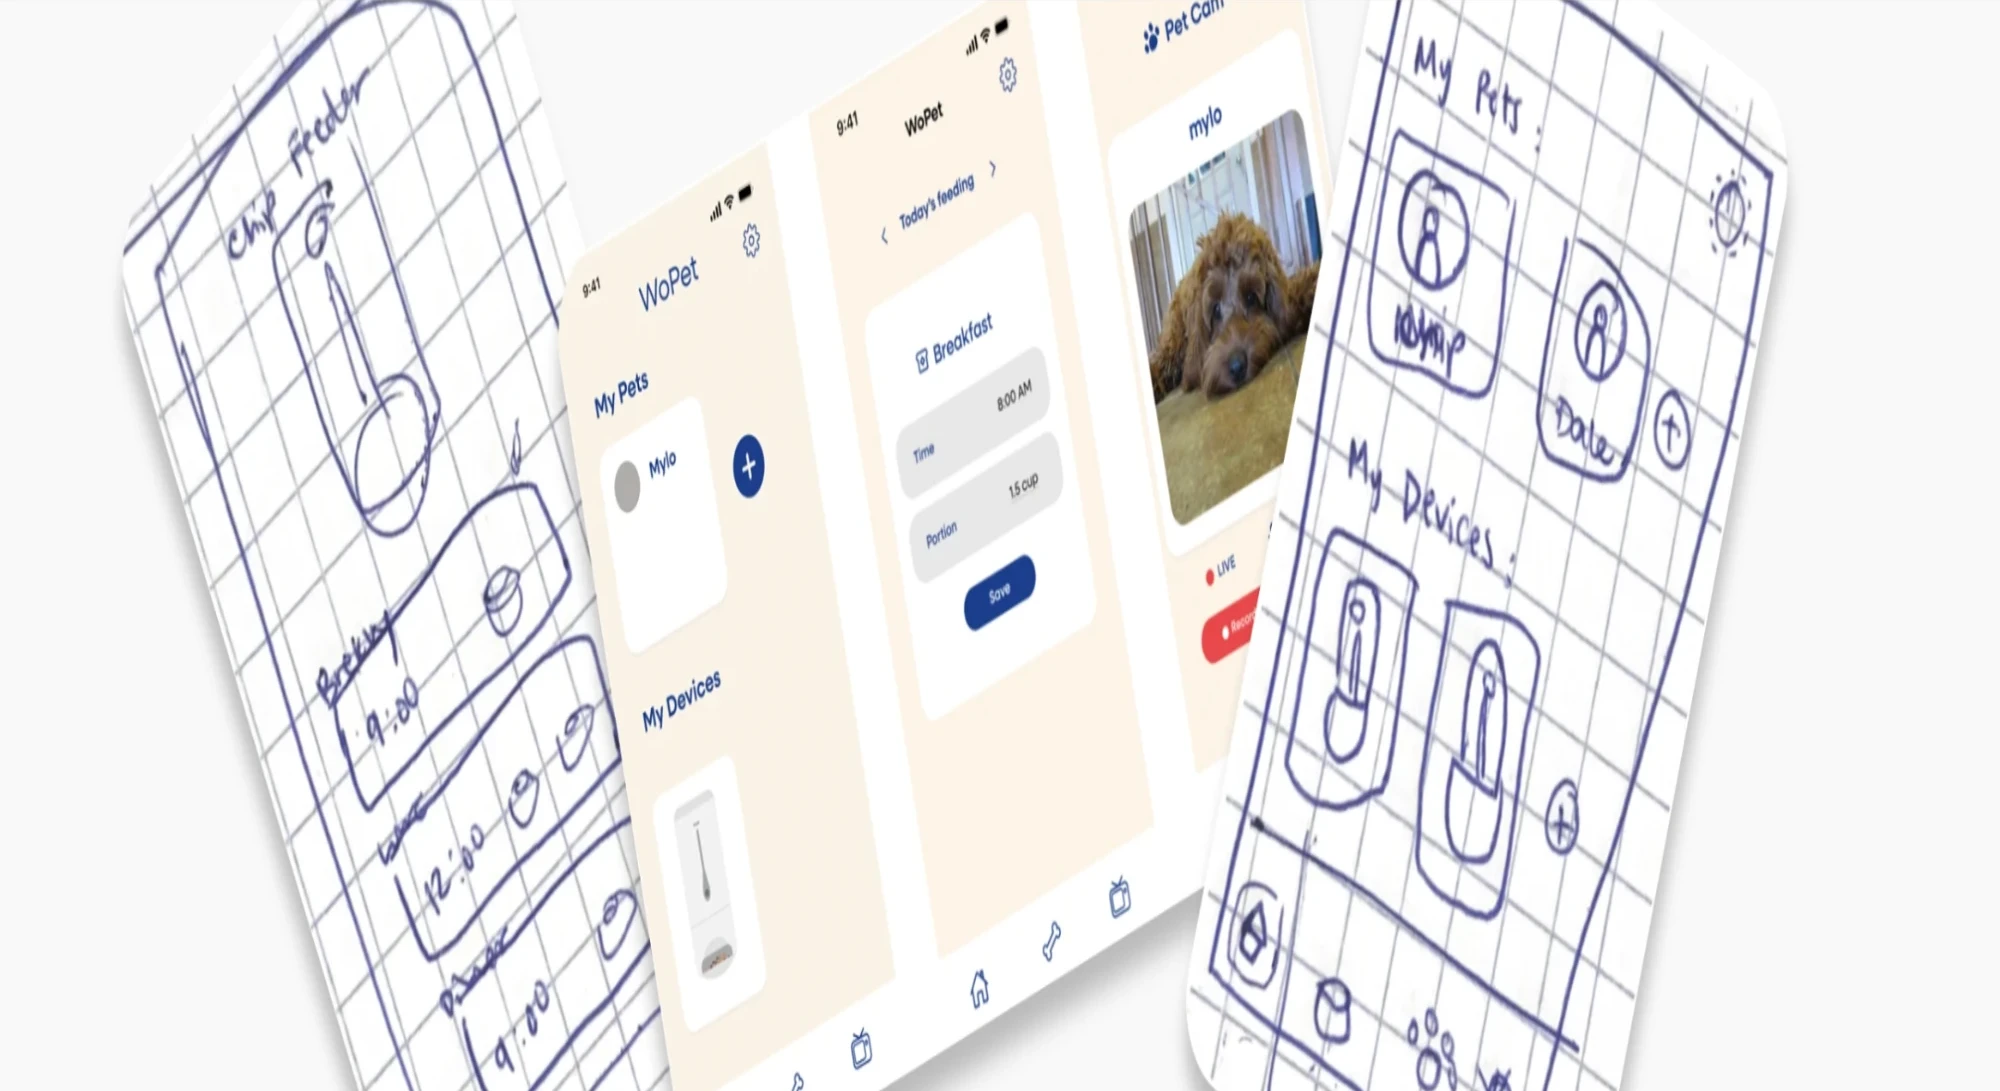
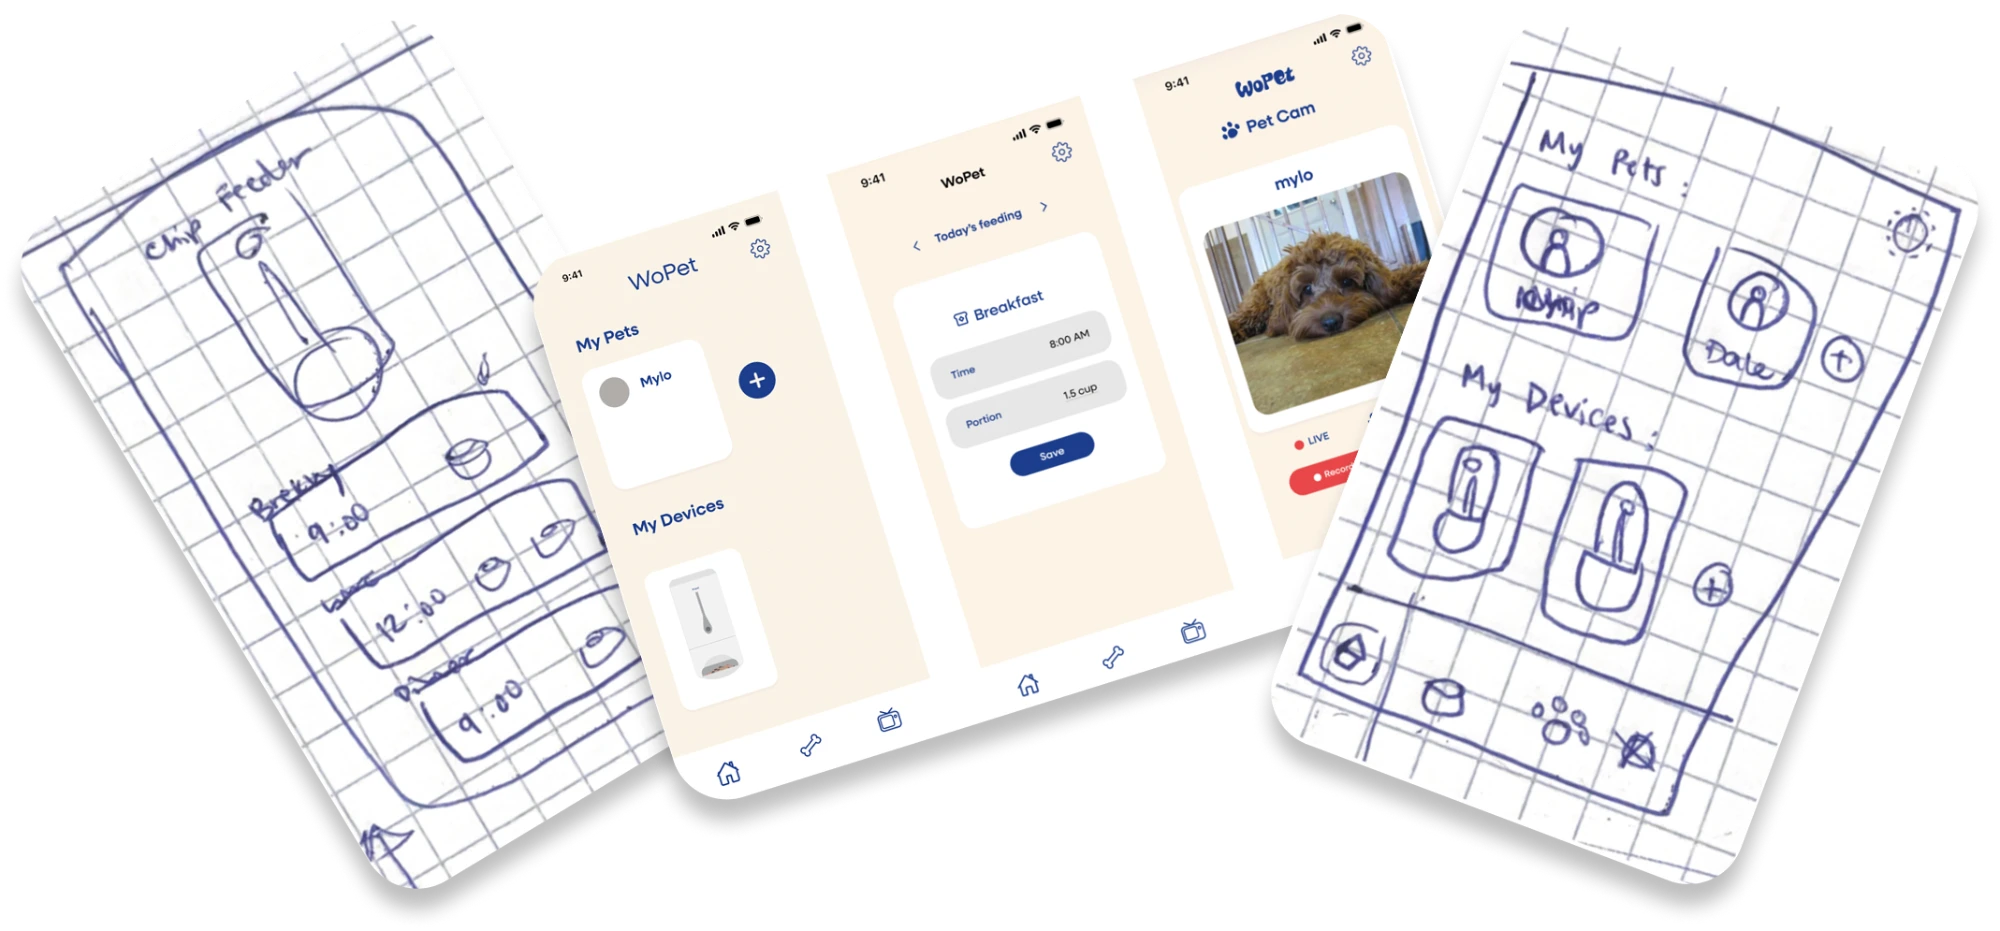
WoPet: replace sketches image with the new 2000x931 version
Swapped the file as-is (transparent background) and set the img's
width/height to its true 2000x931 so it keeps its proportions.

Claude-Session: https://claude.ai/code/session_019JkCqxjsDuEhdJf8TVduP6

diff --git a/work/wopet.html b/work/wopet.html
@@ -95,7 +95,7 @@
           <p>To define the overall look and flow of the basic redesigned features, I created low-fi sketches of my design, including initial ideas for design choices like icons.</p>
           <p>Using these low-fi sketches, I used Figma to bring my ideas to life through a mid-fi prototype, incorporating a basic color scheme inspired by the moodboarding done earlier. After a few iterations of fonts, icons, and logos, I settled on a combination that conveyed the illustrative, playful, yet simple feel I wanted to inject into this redesign.</p>
         </div>
-        <img src="../images/projects/wopet/sketches.webp" alt="Low-fi paper sketches alongside mid-fi WoPet phone mockups: My Pets, feeding schedule, and Pet Cam screens" loading="lazy" width="2000" height="1091">
+        <img src="../images/projects/wopet/sketches.webp" alt="Low-fi paper sketches alongside mid-fi WoPet phone mockups: My Pets, feeding schedule, and Pet Cam screens" loading="lazy" width="2000" height="931">
       </div>
     </section>
 
